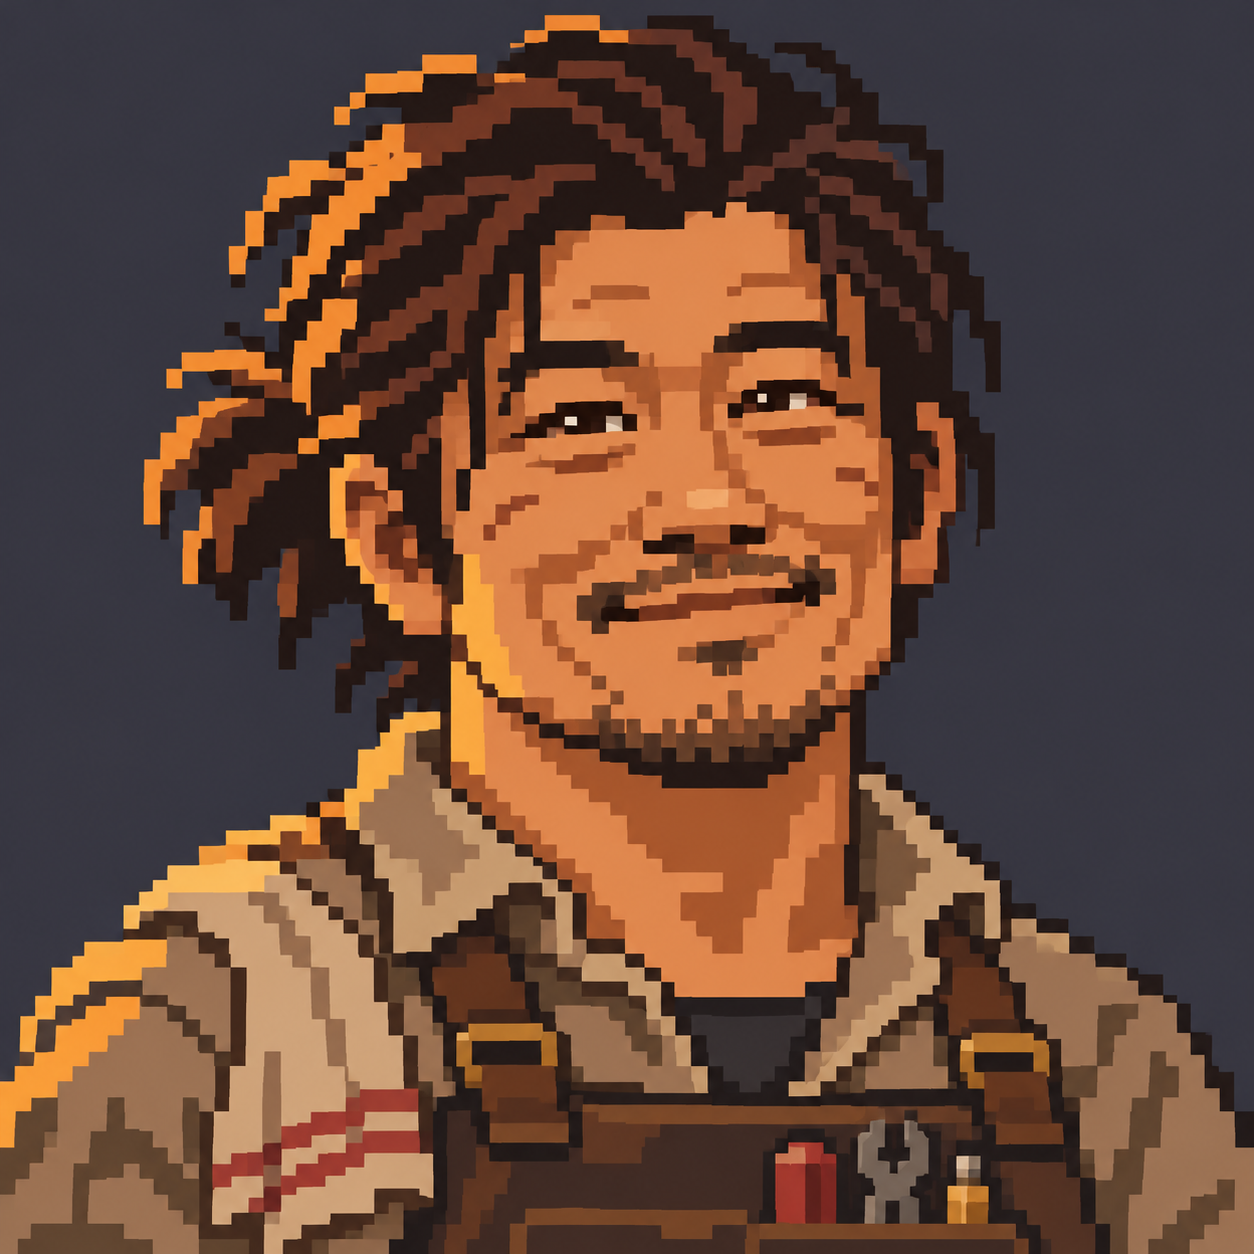
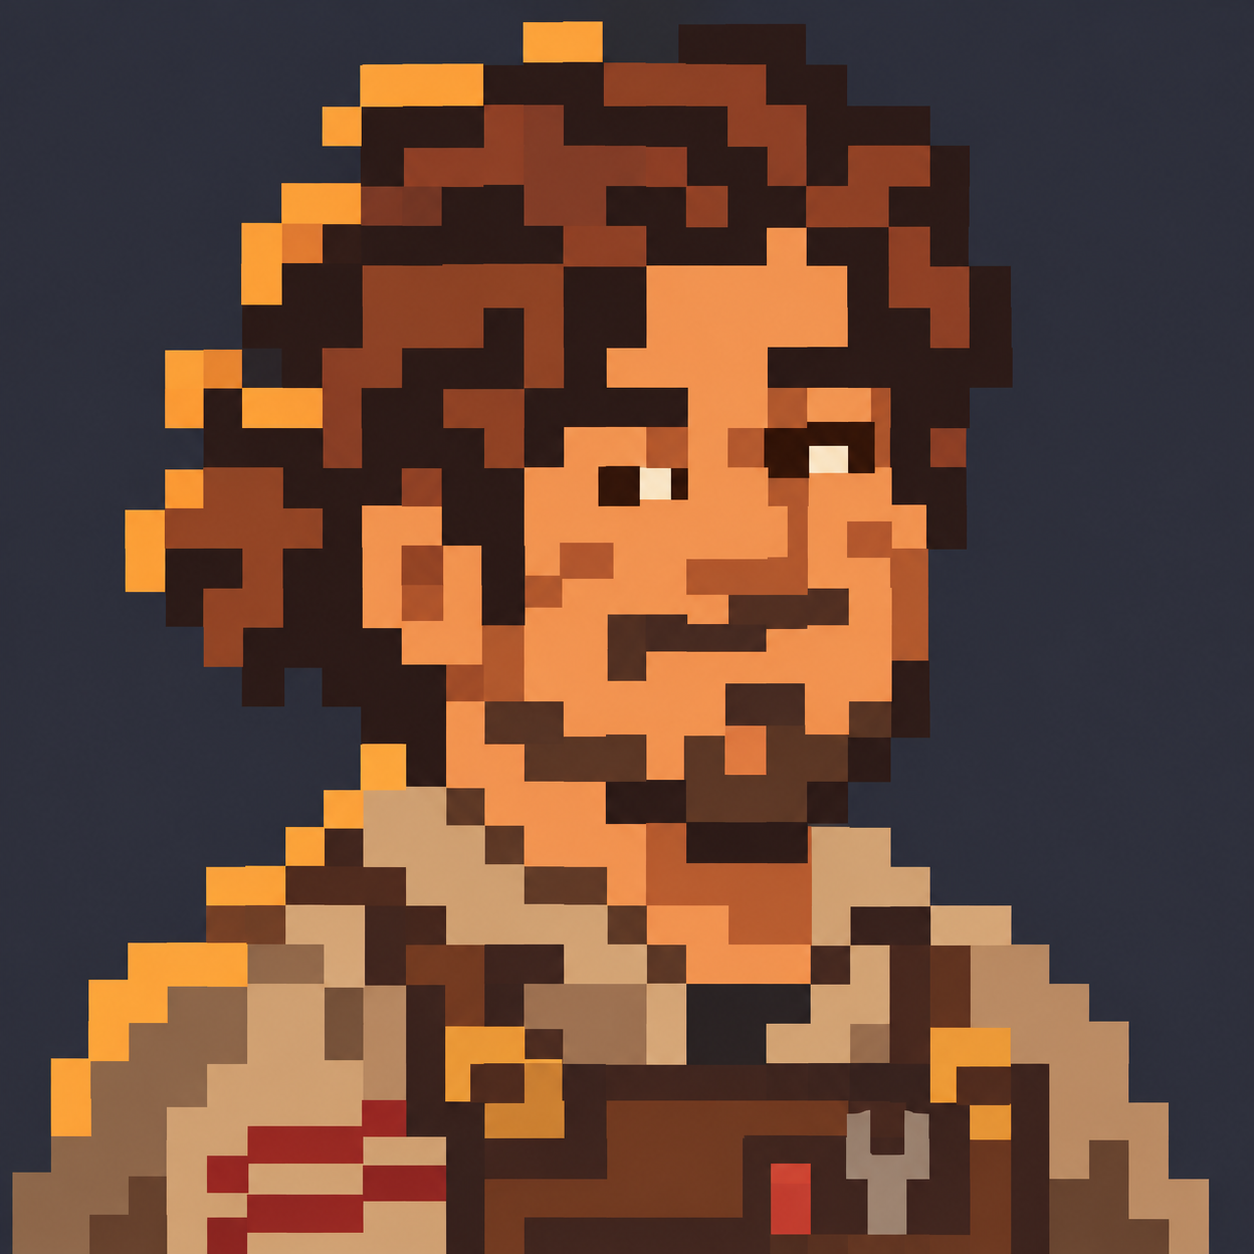
Redraw opening portraits as coarse pixel art

diff --git a/docs/gameplay/PRESENTATION.md b/docs/gameplay/PRESENTATION.md
@@ -4,7 +4,7 @@
 
 酒馆坐席将角色的 `PresentationState.sitting` 设为 true，入座及坐着交谈都复用 `crouch` 动画。胶囊占位模型按坐姿高度同步缩短。
 
-开场头像源图位于 `resources/dialogue/portraits/`。图像用内置 ImageGen 按《整合.docx》的角色小传制作，使用灰底、有限配色和块状轮廓的像素风格。主角的疲惫神态、大姐头的义体接口、商人的配饰和酒保的维修工装保留为识别特征。框外头像使用最近邻采样。主角头像保存在素材目录，发言时界面只显示文字。
+开场头像位于 `resources/dialogue/portraits/`。主角、大姐头和酒保按法国角色设计，商人采用东亚面孔。内置 ImageGen 的绘制要求为接近 24 × 24 网格的粗像素观感、深灰底和少量平涂色块。主角保留疲惫神态，大姐头保留琥珀色义体接口，商人保留方框眼镜，酒保保留维修工装。框外头像使用最近邻采样。主角头像保存在素材目录，发言时界面只显示文字。
 
 ## 资源示例与入口
 
